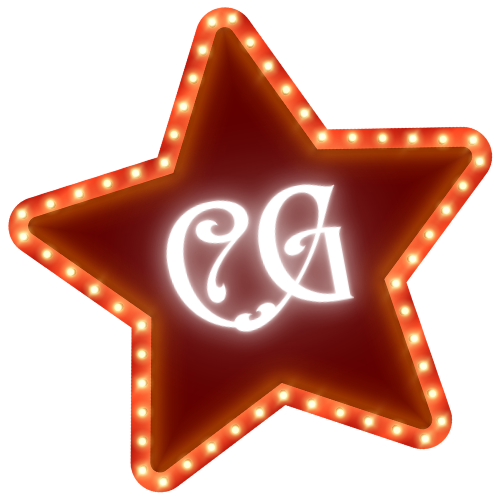
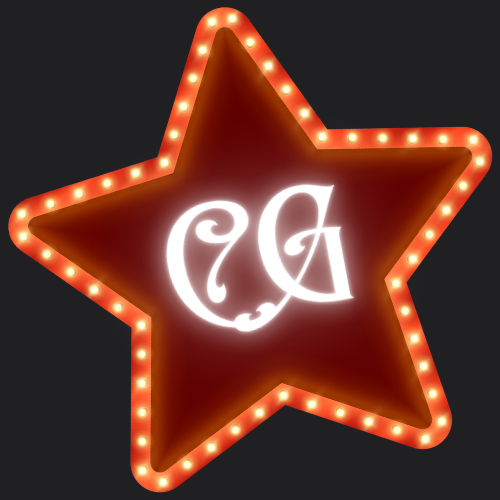
ios app

diff --git a/index.html b/index.html
@@ -1,11 +1,16 @@
 <!DOCTYPE html>
-<html lang="">
+<html lang="en">
   <head>
     <meta charset="UTF-8">
-    <link rel="icon" href="/src/assets/mm.png">
-    <link rel="apple-touch-icon" href="/apple-touch-icon.png">
-    <meta name="viewport" content="width=device-width, initial-scale=1.0">
+    <meta name="viewport" content="width=device-width, initial-scale=1.0, maximum-scale=1.0, user-scalable=no">
     <title>CinemaGoWhere?</title>
+    <link rel="icon" href="/src/assets/mm.png">
+    <link rel="manifest" href="/manifest.json">
+    <link rel="apple-touch-icon" href="/apple-touch-icon.png">
+    <meta name="apple-mobile-web-app-capable" content="yes">
+    <meta name="apple-mobile-web-app-status-bar-style" content="black-translucent">
+    <meta name="apple-mobile-web-app-title" content="CinemaGoWhere">
+    <meta name="theme-color" content="#000000">
   </head>
   <body>
     <div id="app"></div>